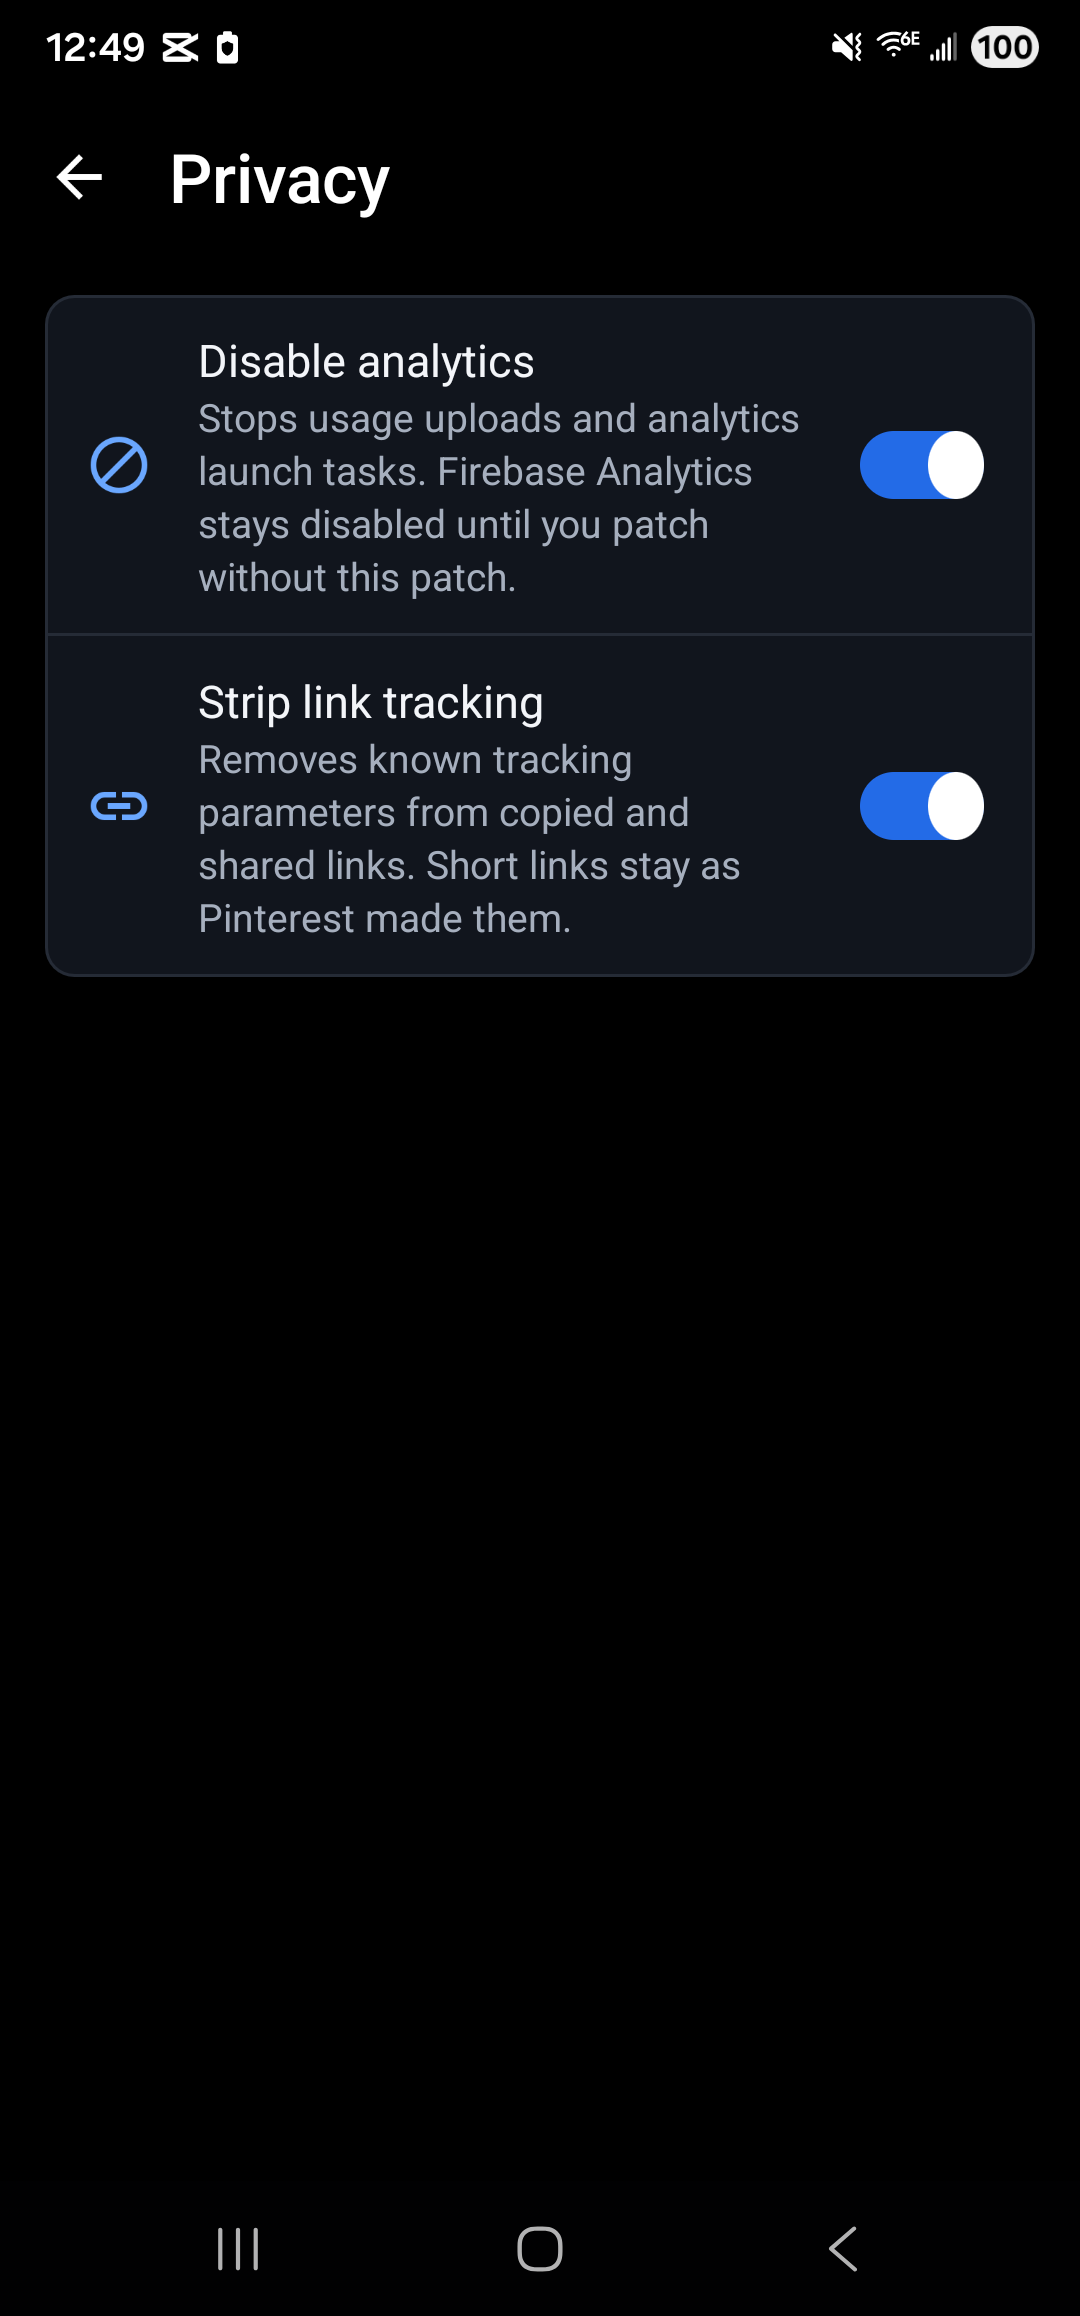
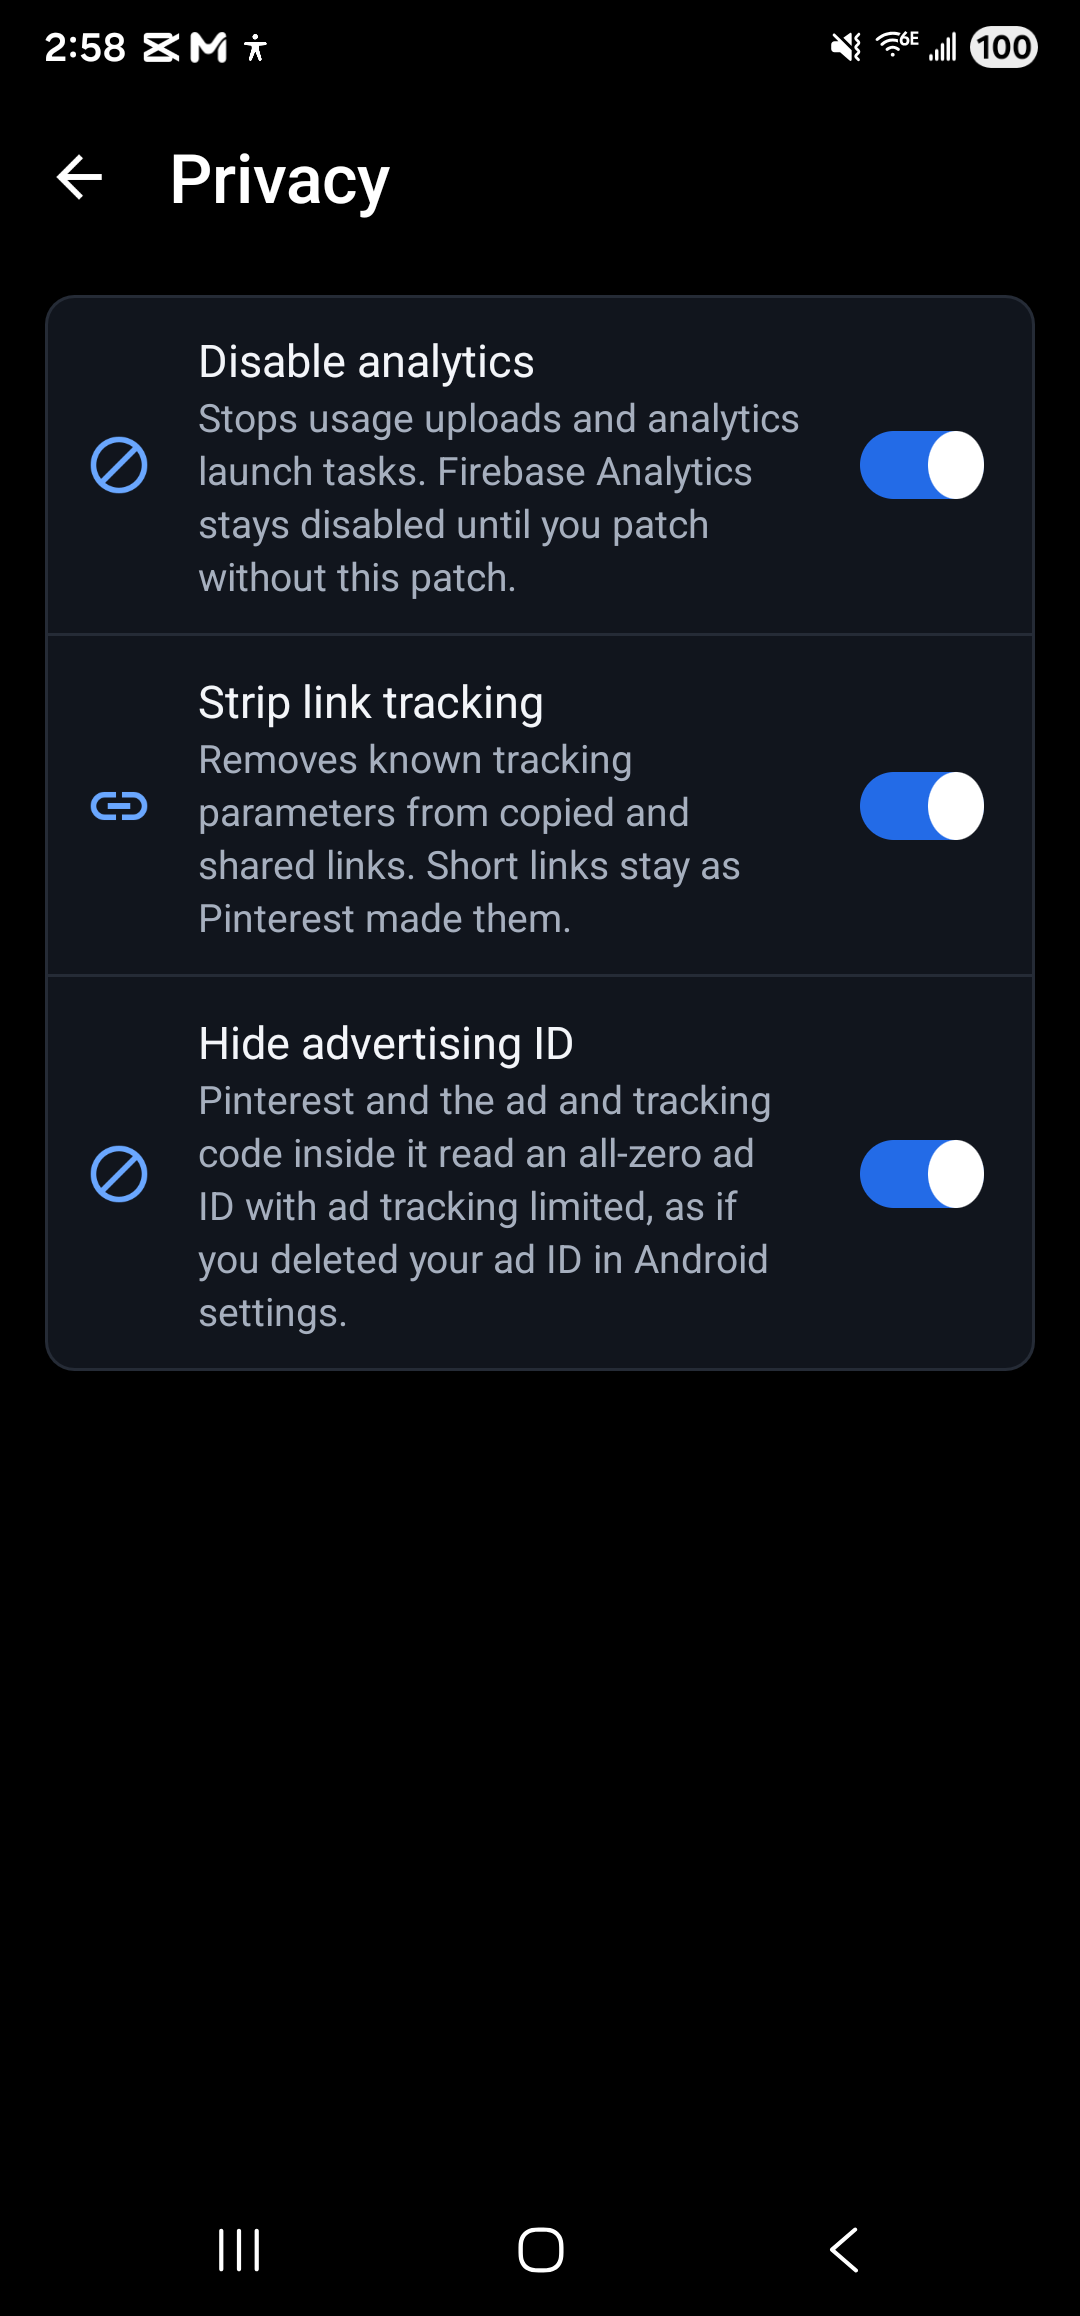
release: prepare 0.0.4
Dates the 0.0.4 changelog section, drops the unreleased notes and
recaptures the Interface and Privacy settings screenshots that gained the
Hide Search button and Hide advertising ID rows.

diff --git a/README.md b/README.md
@@ -14,8 +14,6 @@ HushPinterest is a Morphe patch bundle for Android that takes promoted pins out 
 
 The latest release is [v0.0.3](https://github.com/SysAdminDoc/HushPinterest/releases/tag/v0.0.3), with 17 patches. Add this repo to Morphe Manager as a patch source and it'll offer each new release when it comes out.
 
-The source version is **0.0.4**. It hasn't been released.
-
 ## Which Pinterest
 
 HushPinterest targets Pinterest **14.38.0**, version code 14388010 (`com.pinterest`), which needs Android 10. On Android 9, use **14.25.0** (version code 14258020) instead. It patches the same way. Use the universal APK, the single file that holds every screen density and processor type. APKMirror lists it as the "nodpi" variant. A split bundle (`.apkm`, `.xapk`) works too if Morphe Manager can merge it.
@@ -89,7 +87,7 @@ Long-press the Pinterest icon and tap HushPinterest. You can also open Pinterest
 <p>
   <img src="assets/screenshots/settings-home.png" width="240" alt="HushPinterest settings categories">
   <img src="assets/screenshots/settings-feed.png" width="240" alt="Feed controls for promoted, AI-labeled and shopping pins">
-  <img src="assets/screenshots/settings-privacy.png" width="240" alt="Analytics and link-tracking controls">
+  <img src="assets/screenshots/settings-privacy.png" width="240" alt="Analytics, link-tracking and advertising ID controls">
   <img src="assets/screenshots/settings-updates.png" width="240" alt="Release notes and update instructions in settings">
   <img src="assets/screenshots/settings-recovery.png" width="240" alt="Retry and Back if the settings screen can't open">
 </p>

diff --git a/CHANGELOG.md b/CHANGELOG.md
@@ -2,9 +2,7 @@
 
 Every HushPinterest release, newest first.
 
-## 0.0.4 (2026-10-03)
-
-Unreleased source changes. The published release remains 0.0.3.
+## 0.0.4 (2026-10-05)
 
 * **Tooling:** A hook can no longer borrow a register that its own call still reads, and the patch checks refuse a hook call that passes one register twice unless Pinterest's own call already did.
 
